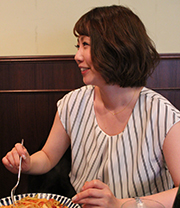
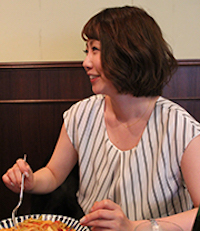
onedayコンテンツ写真差し替え

diff --git a/oneday.html b/oneday.html
@@ -168,17 +168,11 @@
 
             <figure class="right"><img src="img/oneday_hashimoto02.JPG" alt=""></figure>
 
-            <dl class="left">
-            <dt><time>13:00</time>お客様との打ち合わせ</dt>
-            <dd>TODOTODOTODOTODOTODOTODOTODO
-            </dd>
-            </dl>
-
-            <figure class="left clear"><img src="img/img_business4_03.jpg" alt=""></figure>
+            <figure class="left clear"><img src="img/oneday_hashimoto03.JPG" alt=""></figure>
 
             <dl class="right">
-            <dt><time>15:00</time>面接対応</dt>
-            <dd>TODOTODOTODOTODOTODOTODO</dd>
+            <dt><time>15:00</time>お客様との打ち合わせ</dt>
+            <dd>パートナー会社様と打ち合わせを行います。</dd>
             </dl>
 
             <dl class="left clear">
@@ -188,12 +182,12 @@
             </dd>
             </dl>
 
-            <figure class="right"><img src="img/img_business4_04.jpg" alt=""></figure>
+            <figure class="right"><img src="img/oneday_hashimoto04.JPG" alt=""></figure>
 
             <dl class="last">
             <dt><time>18:00</time>業務終了　帰宅</dt>
             <dd>
-            <figure><img src="img/img_business4_last.jpg" alt=""></figure>
+            <figure><img src="img/oneday_hashimoto05.JPG" alt=""></figure>
             TODOTODOTODOTODOTODOTODOTODO
             </dd>
             </dl>
@@ -274,7 +268,7 @@
           </header>
           <div class="scheduleTree">
 
-            <figure class="left"><img src="img/img_business4_01.jpg" alt=""></figure>
+            <figure class="left"><img src="img/oneday_masumura01.JPG" alt=""></figure>
 
             <dl class="right">
             <dt><time>9:00</time>出社</dt>
@@ -295,18 +289,15 @@
             <dl class="left">
             <dt><time>13:00</time>作業再開</dt>
             <dd>午前からの続き。作業中は集中力を高めるために適度に休憩をとりながら取り掛かります。<br>
-            パスワードの変更やhostsの入れ替えは間違えると大変なので慎重に行います。</dd>
+            このタイミングで構築会議を行うこともあります。</dd>
             </dl>
 
-            <figure class="right"><img src="img/img_business4_02.jpg" alt=""></figure>
-
-
-            <figure class="left"><img src="img/img_business4_04.jpg" alt=""></figure>
+            <figure class="right"><img src="img/oneday_masumura03.JPG" alt=""></figure>
 
             <dl class="last">
             <dt><time>20:00</time>帰宅</dt>
             <dd>
-            <figure><img src="img/img_business4_last.jpg" alt=""></figure>
+            <figure><img src="img/oneday_masumura02.JPG" alt=""></figure>
             自社の報告資料を作ったり、今日覚えた内容を復習したりします。<br>
             終わったら趣味や友達と遊びに行ったりするのも必要ですね！
             </dd>

diff --git a/css/main.css b/css/main.css
@@ -895,7 +895,7 @@ margin-left: 0.1em;
   background: #fff;
   position: relative;
   width: 100%;
-  height: 1700px;
+  height: 1400px;
   z-index: 5;
   box-shadow: 0 -2px 3px -2px rgba(0,0,0,0.2), 0 2px 2px rgba(0,0,0,0.1);
   border-radius: 0 3px 3px 3px;
